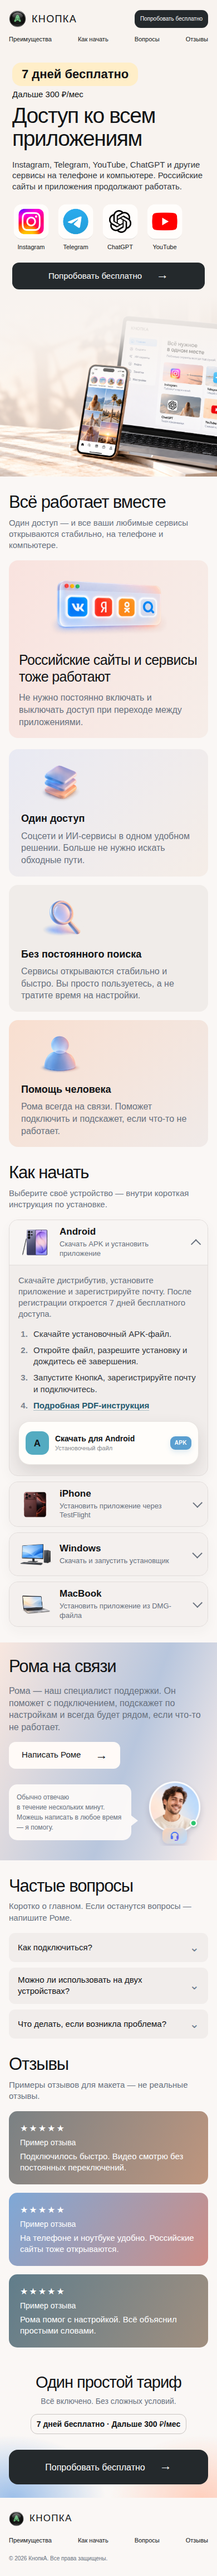
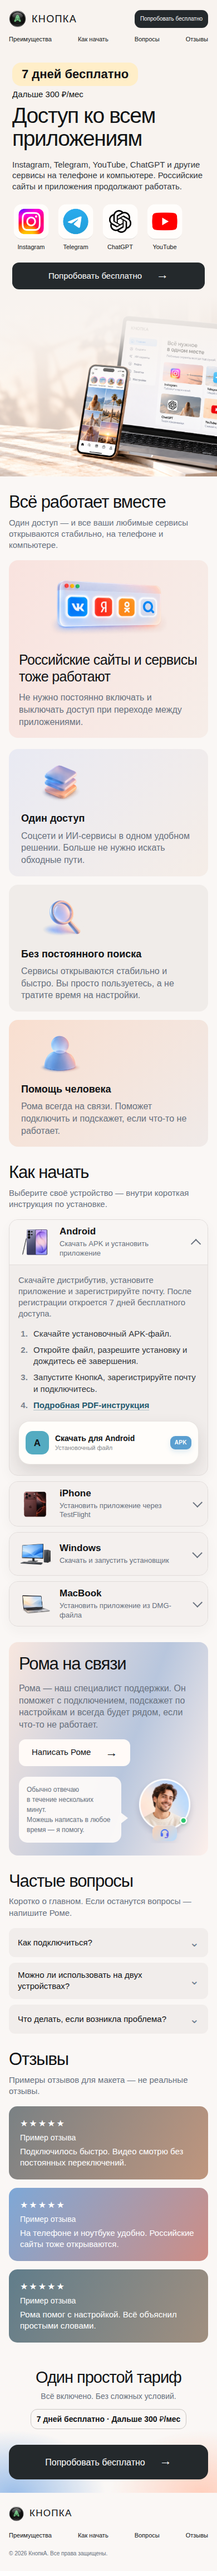
style: refine site support card

diff --git a/Design2.0/version-001-mvp/site/source/index.html b/Design2.0/version-001-mvp/site/source/index.html
@@ -139,7 +139,7 @@
     </section>
     <section class="support" aria-labelledby="support-title"><div class="shell support-grid">
       <div class="support-copy"><h2 id="support-title">Рома на связи</h2><p>Рома — наш специалист поддержки. Он поможет с подключением, подскажет по настройкам и всегда будет рядом, если что-то не работает.</p><button type="button" class="button light">Написать Роме <span aria-hidden="true">→</span></button></div>
-      <img class="support-operator" src="../assets/support-operator-miniapp-v1.png" alt="Оператор поддержки КнопкА" width="260" height="260" data-template-keep>
+      <img class="support-operator" src="../assets/support-operator-site-v2.png" alt="Оператор поддержки КнопкА" width="260" height="260" data-template-keep>
       <p class="speech">Обычно отвечаю<br> в течение нескольких минут.<br> Можешь написать в любое время — я помогу.</p>
     </div></section>
     <section class="section shell" id="faq" aria-labelledby="faq-title">

diff --git a/Design2.0/version-001-mvp/site/template/index.html b/Design2.0/version-001-mvp/site/template/index.html
@@ -139,7 +139,7 @@
     </section>
     <section class="support" aria-labelledby="support-title"><div class="shell support-grid">
       <div class="support-copy"><h2 id="support-title">Рома на связи</h2><p>Рома — наш специалист поддержки. Он поможет с подключением, подскажет по настройкам и всегда будет рядом, если что-то не работает.</p><button type="button" class="button light">Написать Роме <span aria-hidden="true">→</span></button></div>
-      <img class="support-operator" src="../assets/support-operator-miniapp-v1.png" alt="Оператор поддержки КнопкА" width="260" height="260" data-template-keep>
+      <img class="support-operator" src="../assets/support-operator-site-v2.png" alt="Оператор поддержки КнопкА" width="260" height="260" data-template-keep>
       <p class="speech">Обычно отвечаю<br> в течение нескольких минут.<br> Можешь написать в любое время — я помогу.</p>
     </div></section>
     <section class="section shell" id="faq" aria-labelledby="faq-title">

diff --git a/Design2.0/version-001-mvp/site/source/styles.css b/Design2.0/version-001-mvp/site/source/styles.css
@@ -71,3 +71,9 @@
 /* Canonical Mini App operator cutout: portrait, online dot and headphones. */
 .support-operator{width:min(100%,260px);height:auto;object-fit:contain;justify-self:center}
 @media(max-width:700px){.support-operator{grid-column:2;grid-row:2;width:120px}}
+
+/* Support is a shell-width card; its inner grid must not narrow twice. */
+.support{width:88%;max-width:1160px;margin:38px auto 0;padding:26px 34px;border-radius:var(--radius)}
+.support>.shell{width:100%;max-width:none}
+@media(min-width:701px) and (max-width:1000px){.support{margin-top:28px;padding:20px 26px}}
+@media(max-width:700px){.support{width:calc(100% - 32px);margin:28px auto 0;padding:22px 18px}}

diff --git a/Design2.0/version-001-mvp/site/assets/README.md b/Design2.0/version-001-mvp/site/assets/README.md
@@ -104,3 +104,14 @@ accordion «Как начать»:
 
 У Windows в Mini App отдельного PDF нет, поэтому Windows accordion содержит
 только inline-инструкцию. Локальные копии не зависят от доступности Worker URL.
+
+## Support operator
+
+`support-operator-miniapp-v1.png` — побайтовая копия canonical Mini App
[1 lines of base64/hex data omitted]
+круглый портрет, online-dot и badge наушников на прозрачном фоне.
+
+Для светлой site-card используется `support-operator-site-v2.png`. В нём
+детерминированно ослаблен только alpha полупрозрачной тени ниже badge (`y>220`,
+alpha `<0.65`, множитель `0.35`); RGB-каналы и непрозрачные пиксели исходного
+портрета и badge не изменены. V1 оставлен рядом для отката.
